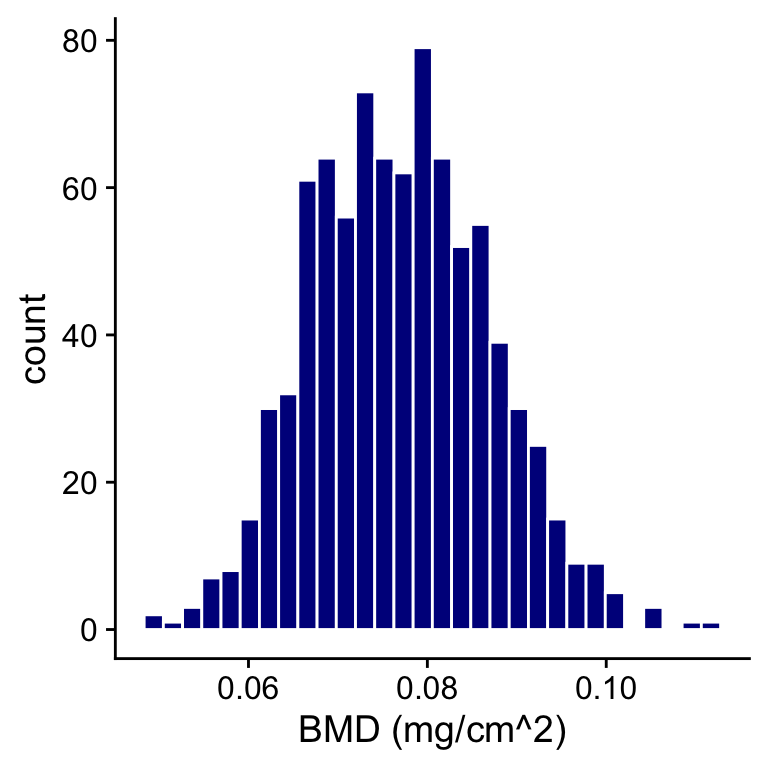
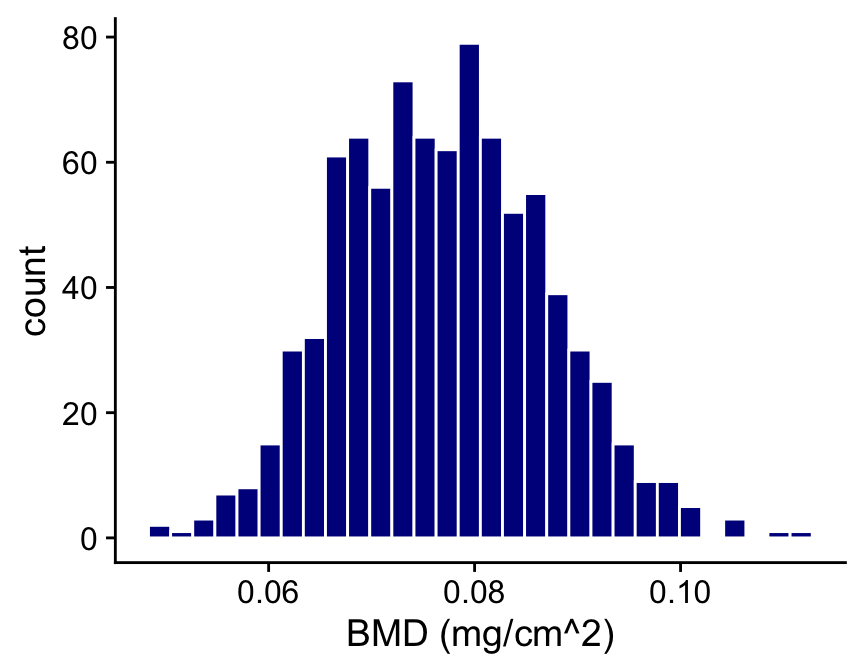
Adjusted figure dimensions in hmdp analysis.

Changed region(s): [[0.0312, 0.0312, 0.9688, 1.0]]

diff --git a/docs/hmdp.html b/docs/hmdp.html
@@ -416,17 +416,21 @@ This reproducible <a href="http://rmarkdown.rstudio.com">R Markdown</a> analysis
 <div class="panel panel-default">
 <div class="panel-heading">
 <p class="panel-title">
-<a data-toggle="collapse" data-parent="#workflowr-checks" href="#strongRepositoryversionstrongahrefhttpsgithubcompcarboresearchworkflowrtemplatetree1e3ab5accd8d2416f2e22930ca2ab2dd5637db8etargetblank1e3ab5aa"> <span class="glyphicon glyphicon-ok text-success" aria-hidden="true"></span> <strong>Repository version:</strong> <a href="https://github.com/pcarbo/research-workflowr-template/tree/1e3ab5accd8d2416f2e22930ca2ab2dd5637db8e" target="_blank">1e3ab5a</a> </a>
+<a data-toggle="collapse" data-parent="#workflowr-checks" href="#strongRepositoryversionstrongahrefhttpsgithubcompcarboresearchworkflowrtemplatetreed452c72964f7b1583bd32c529db5a6dd0fbfc819targetblankd452c72a"> <span class="glyphicon glyphicon-ok text-success" aria-hidden="true"></span> <strong>Repository version:</strong> <a href="https://github.com/pcarbo/research-workflowr-template/tree/d452c72964f7b1583bd32c529db5a6dd0fbfc819" target="_blank">d452c72</a> </a>
 </p>
 </div>
[2 lines of base64/hex data omitted]
 <div class="panel-body">
 <p>
 Great! You are using Git for version control. Tracking code development and connecting the code version to the results is critical for reproducibility. The version displayed above was the version of the Git repository at the time these results were generated. <br><br> Note that you need to be careful to ensure that all relevant files for the analysis have been committed to Git prior to generating the results (you can use <code>wflow_publish</code> or <code>wflow_git_commit</code>). workflowr only checks the R Markdown file, but you know if there are other scripts or data files that it depends on. Below is the status of the Git repository when the results were generated:
 </p>
 <pre><code>
-Ignored files:
-    Ignored:    output/
+Untracked files:
+    Untracked:  analysis/cfw.Rmd~
+
+Unstaged changes:
+    Modified:   analysis/index.Rmd
+    Modified:   code/README
 
 </code></pre>
 <p>
@@ -465,6 +469,57 @@ Message
 </tr>
 </thead>
 <tbody>
+<tr>
+<td>
+Rmd
+</td>
+<td>
+<a href="https://github.com/pcarbo/research-workflowr-template/blob/d452c72964f7b1583bd32c529db5a6dd0fbfc819/analysis/hmdp.Rmd" target="_blank">d452c72</a>
+</td>
+<td>
+Peter Carbonetto
+</td>
+<td>
+2020-02-11
+</td>
+<td>
+wflow_publish(“hmdp.Rmd”)
+</td>
+</tr>
+<tr>
+<td>
+Rmd
+</td>
+<td>
+<a href="https://github.com/pcarbo/research-workflowr-template/blob/17fa98558e9e3593c7039840688f603c58c8441d/analysis/hmdp.Rmd" target="_blank">17fa985</a>
+</td>
+<td>
+Peter Carbonetto
+</td>
+<td>
+2020-02-11
+</td>
+<td>
+Removed public directory.
+</td>
+</tr>
+<tr>
+<td>
+html
+</td>
+<td>
+<a href="https://rawcdn.githack.com/pcarbo/research-workflowr-template/957c904abc8ffebbb009dfd24395b28c85651871/docs/hmdp.html" target="_blank">957c904</a>
+</td>
+<td>
+Peter Carbonetto
+</td>
+<td>
+2020-02-11
+</td>
+<td>
+Made a few improvements to the hmdp analysis.
+</td>
+</tr>
 <tr>
 <td>
 Rmd
@@ -526,9 +581,10 @@ wflow_publish(“hmdp.Rmd”)
 <p>Here we examine data on bone-mineral density (BMD) from measurements taken in a “reference” mouse population, the Hybrid Mouse Diversity Panel.</p>
 <div id="load-packages" class="section level2">
 <h2>Load packages</h2>
-<p>Load a couple packages used in the analysis below.</p>
+<p>Load packages and function used in the analysis below.</p>
 <pre class="r"><code>library(ggplot2)
-library(cowplot)</code></pre>
+library(cowplot)
+source(&quot;../code/plots.R&quot;)</code></pre>
 </div>
 <div id="load-data" class="section level2">
 <h2>Load data</h2>
@@ -542,7 +598,7 @@ library(cowplot)</code></pre>
   geom_histogram(color = &quot;white&quot;,fill = &quot;darkblue&quot;,na.rm = TRUE) +
   labs(x = &quot;BMD (mg/cm^2)&quot;) +
   theme_cowplot()</code></pre>
-<p><img src="figure/hmdp.Rmd/plot-bmd-females-1.png" width="384" style="display: block; margin: auto;" /></p>
+<p><img src="figure/hmdp.Rmd/plot-bmd-females-1.png" width="432" style="display: block; margin: auto;" /></p>
 <p>
 <button type="button" class="btn btn-default btn-xs btn-workflowr btn-workflowr-fig" data-toggle="collapse" data-target="#fig-plot-bmd-females-1">
 Past versions of plot-bmd-females-1.png
@@ -565,6 +621,17 @@ Date
 </tr>
 </thead>
 <tbody>
+<tr>
+<td>
+<a href="https://github.com/pcarbo/research-workflowr-template/blob/957c904abc8ffebbb009dfd24395b28c85651871/docs/figure/hmdp.Rmd/plot-bmd-females-1.png" target="_blank">957c904</a>
+</td>
+<td>
+Peter Carbonetto
+</td>
+<td>
+2020-02-11
+</td>
+</tr>
 <tr>
 <td>
 <a href="https://github.com/pcarbo/research-workflowr-template/blob/2a2ae5775e4fe8e873bb58a0fbd1be53e357be5e/docs/figure/hmdp.Rmd/plot-bmd-females-1.png" target="_blank">2a2ae57</a>
